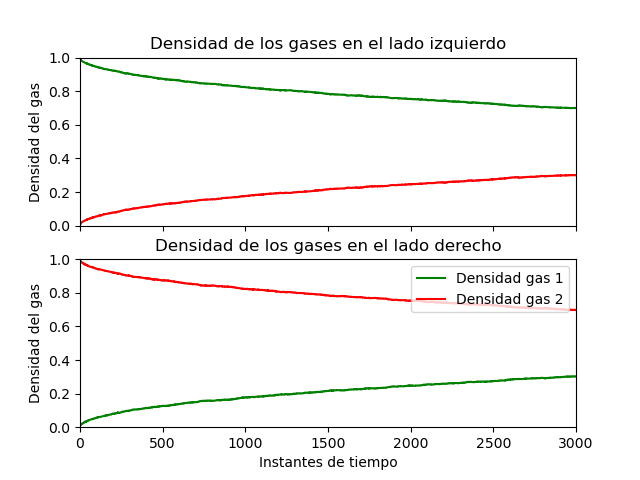
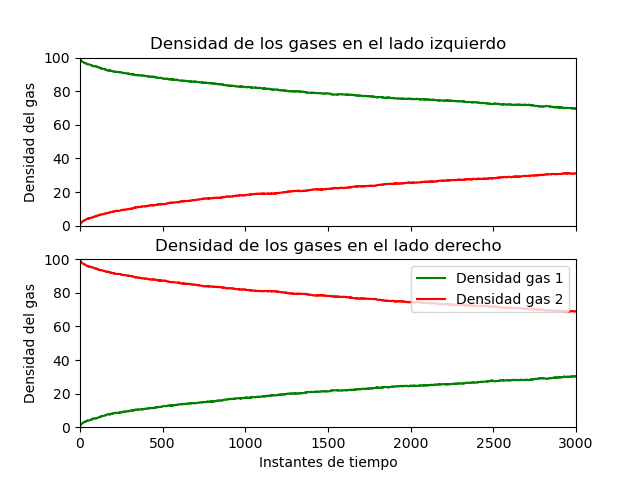
Added imagenes de densidad de gases. Added ejercicio 09b.

diff --git a/TP-1/Ejercicio09.py b/TP-1/Ejercicio09.py
@@ -18,23 +18,29 @@ RW_CUATRO_DIRS_VEL = 0.1
 densidad_lado_izq = []
 densidad_lado_der = []
 
-gas_1_x = np.random.uniform(0, LIMIT_X/2, CANT_GAS_1)
-gas_1_y = np.random.uniform(0, LIMIT_Y, CANT_GAS_1)
-gas_1 = np.column_stack((gas_1_x,gas_1_y))
+def crear_particulas_gases():
+    gas_1_x = np.random.uniform(0, LIMIT_X/2, CANT_GAS_1)
+    gas_1_y = np.random.uniform(0, LIMIT_Y, CANT_GAS_1)
+    gas_1 = np.column_stack((gas_1_x,gas_1_y))
 
-gas_2_x = np.random.uniform(LIMIT_X/2, LIMIT_X, CANT_GAS_2)
-gas_2_y = np.random.uniform(0, LIMIT_Y, CANT_GAS_2)
-gas_2 = np.column_stack((gas_2_x,gas_2_y))
+    gas_2_x = np.random.uniform(LIMIT_X/2, LIMIT_X, CANT_GAS_2)
+    gas_2_y = np.random.uniform(0, LIMIT_Y, CANT_GAS_2)
+    gas_2 = np.column_stack((gas_2_x,gas_2_y))
+    return gas_1, gas_2
 
-fig = plt.figure()
-ax = plt.axes(xlim=(0, LIMIT_X), ylim=(0, LIMIT_Y))
-scat_gas_1 = ax.scatter([], [], s=0.5, c="g")
-scat_gas_2 = ax.scatter([], [], s=0.5, c="r")
+def choco_con_paredes_ej_a(old_x, old_y, new_x, new_y):
+    return esta_fuera_de_limites(old_x, old_y, new_x, new_y)
 
-def esta_en_limites(x,y):
-    return (0 <= x <= LIMIT_X and 0 <= y <= LIMIT_Y)
+def choco_con_paredes_ej_b(old_x, old_y, new_x, new_y):
+    return esta_fuera_de_limites(old_x, old_y, new_x, new_y) or choco_con_pared_del_medio(old_x, old_y, new_x, new_y)
 
-def random_walk_cuatro_dirs(x,y):
+def choco_con_pared_del_medio(old_x, old_y, new_x, new_y):
+    return (old_x < LIMIT_X/2 and new_x > LIMIT_X/2 and new_y > LIMIT_Y/2) or (old_x > LIMIT_X/2 and new_x < LIMIT_X/2 and new_y > LIMIT_Y/2)
+
+def esta_fuera_de_limites(old_x, old_y, new_x, new_y):
+    return not (0 <= new_x <= LIMIT_X and 0 <= new_y <= LIMIT_Y)
+
+def random_walk_cuatro_dirs(x, y, choco_con_pared):
     """Esta funcion recibe la posicion de una particula y devuelve la nueva posicion para la misma dentro de los limites"""
     siguientePaso = random.randint(1,4)
     if siguientePaso == 1:
@@ -45,7 +51,7 @@ def random_walk_cuatro_dirs(x,y):
         new_x,new_y = x - RW_CUATRO_DIRS_VEL, y
     else:
         new_x,new_y = x, y - RW_CUATRO_DIRS_VEL
-    if not esta_en_limites(new_x,new_y):
+    if choco_con_pared(x, y, new_x, new_y): #si choca, se queda con los X,Y anteriores al calculo.
         return x,y
     return new_x,new_y
 
@@ -56,48 +62,87 @@ def init():
 def calcular_densidad_derecha(instante):
     cant_gas_1_lado_der = len(gas_1.T[0][gas_1.T[0]>LIMIT_X/2]) #Obtengo aquellas parts. del gas 1 que estan del lado derecho
     cant_gas_2_lado_der = len(gas_2.T[0][gas_2.T[0]>LIMIT_X/2]) #Obtengo aquellas parts. del gas 2 que estan del lado derecho
-    total_lado_der = cant_gas_1_lado_der + cant_gas_2_lado_der
-    return [instante,cant_gas_1_lado_der/total_lado_der,cant_gas_2_lado_der/total_lado_der]
+    superficie = LIMIT_X/2 * LIMIT_Y
+    return [instante,cant_gas_1_lado_der/superficie,cant_gas_2_lado_der/superficie]
 
 def calcular_densidad_izquierda(instante):
     cant_gas_1_lado_izq = len(gas_1.T[0][gas_1.T[0]<LIMIT_X/2]) #Obtengo aquellas parts. del gas 1 que estan del lado izquierdo
     cant_gas_2_lado_izq = len(gas_2.T[0][gas_2.T[0]<LIMIT_X/2]) #Obtengo aquellas parts. del gas 2 que estan del lado izquierdo
-    total_lado_izq = cant_gas_1_lado_izq + cant_gas_2_lado_izq
-    return [instante,cant_gas_1_lado_izq/total_lado_izq,cant_gas_2_lado_izq/total_lado_izq]
+    superficie = LIMIT_X/2 * LIMIT_Y
+    return [instante,cant_gas_1_lado_izq/superficie,cant_gas_2_lado_izq/superficie]
 
-def animate_random_walk(instante, random_walk_func):
+def animate_random_walk_ej_a(instante, random_walk_func):
     """Esta funcion se ejecuta en cada frame del random walk aplicandole la funcion recibida por parametro a las "particulas" de cada gas obteniendo asi su nueva posicion"""
     for t in range(0, len(gas_1)):
-        gas_1[t][0],gas_1[t][1] = random_walk_func(gas_1[t][0], gas_1[t][1])
+        gas_1[t][0],gas_1[t][1] = random_walk_func(gas_1[t][0], gas_1[t][1], choco_con_paredes_ej_a)
     for t in range(0, len(gas_2)):
-        gas_2[t][0],gas_2[t][1] = random_walk_func(gas_2[t][0], gas_2[t][1])
+        gas_2[t][0],gas_2[t][1] = random_walk_func(gas_2[t][0], gas_2[t][1], choco_con_paredes_ej_a)
+    densidad_lado_der.append(calcular_densidad_derecha(instante))
+    densidad_lado_izq.append(calcular_densidad_izquierda(instante))
+   
+def animate_random_walk_ej_b(instante, random_walk_func):
+    """Esta funcion se ejecuta en cada frame del random walk aplicandole la funcion recibida por parametro a las "particulas" de cada gas obteniendo asi su nueva posicion"""
+    for t in range(0, len(gas_1)):
+        gas_1[t][0],gas_1[t][1] = random_walk_func(gas_1[t][0], gas_1[t][1], choco_con_paredes_ej_b)
+    for t in range(0, len(gas_2)):
+        gas_2[t][0],gas_2[t][1] = random_walk_func(gas_2[t][0], gas_2[t][1], choco_con_paredes_ej_b)
     densidad_lado_der.append(calcular_densidad_derecha(instante))
     densidad_lado_izq.append(calcular_densidad_izquierda(instante))
 
-anim = FuncAnimation(fig, animate_random_walk, init_func=init, frames=CANT_INSTANTES, interval=1, repeat=False, fargs=(random_walk_cuatro_dirs,))
+def plot_densidad(ax, densidad, title):
+    ax.plot(np.array(densidad).T[0], np.array(densidad).T[1], "-g", label="Densidad gas 1")
+    ax.plot(np.array(densidad).T[0], np.array(densidad).T[2], "-r", label="Densidad gas 2")
+    ax.set_title(title)
 
-#Comentar la siguiente linea si no funciona, hay que instalar imagemagick
-anim.save('E09-a.gif', writer='imagemagick')
-plt.show()
+def set_plot_axis():
+    for ax in axs.flat:
+        ax.set(xlabel='Instantes de tiempo', ylabel='Densidad del gas')
+        ax.set_xlim(0, CANT_INSTANTES)
+        ax.set_ylim(0, 100)
+        ax.label_outer()
+        
+fig = plt.figure()
+ax = plt.axes(xlim=(0, LIMIT_X), ylim=(0, LIMIT_Y))
+scat_gas_1 = ax.scatter([], [], s=0.5, c="g")
+scat_gas_2 = ax.scatter([], [], s=0.5, c="r")
 
-fig, axs = plt.subplots(2)
+gas_1, gas_2 = crear_particulas_gases()
 
-ax_densidad_izquierda = axs[0]
-ax_densidad_izquierda.plot(np.array(densidad_lado_izq).T[0], np.array(densidad_lado_izq).T[1], "-g", label="Densidad gas 1")
-ax_densidad_izquierda.plot(np.array(densidad_lado_izq).T[0], np.array(densidad_lado_izq).T[2], "-r", label="Densidad gas 2")
-ax_densidad_izquierda.set_title("Densidad de los gases en el lado izquierdo")
+ej = input("Presione la tecla 'a' o la tecla 'b': ")
+while ej not in {'a','b'}:
+    ej = input("Presione la tecla 'a' o la tecla 'b': ")
 
-ax_densidad_derecha = axs[1]
-ax_densidad_derecha.plot(np.array(densidad_lado_der).T[0], np.array(densidad_lado_der).T[1], "-g", label="Densidad gas 1")
-ax_densidad_derecha.plot(np.array(densidad_lado_der).T[0], np.array(densidad_lado_der).T[2], "-r", label="Densidad gas 2")
-ax_densidad_derecha.set_title("Densidad de los gases en el lado derecho")
+if ej == 'a':
+    print("Ejecutando punto A)")
+    anim = FuncAnimation(fig, animate_random_walk_ej_a, init_func=init, frames=CANT_INSTANTES, interval=1, repeat=False, fargs=(random_walk_cuatro_dirs,))
 
-for ax in axs.flat:
-    ax.set(xlabel='Instantes de tiempo', ylabel='Densidad del gas')
-    ax.set_xlim(0, CANT_INSTANTES)
-    ax.set_ylim(0,1)
-    ax.label_outer()
+    #Comentar la siguiente linea si no funciona, hay que instalar imagemagick
+    #anim.save('E09-a.gif', writer='imagemagick')
+    plt.show()
 
-plt.legend(loc="upper right")
-fig.savefig(sys.path[0] + "/E09-a-densidad-gases.png")
-plt.show()
+    fig, axs = plt.subplots(2)
+
+    plot_densidad(axs[0], densidad_lado_izq, "Densidad de los gases en el lado izquierdo")
+    plot_densidad(axs[1], densidad_lado_der, "Densidad de los gases en el lado derecho")
+    set_plot_axis()
+
+    plt.legend(loc="upper right")
+    fig.savefig(sys.path[0] + "/E09-a-densidad-gases.png")
+    plt.show()
+else:
+    print("Ejecutando punto B) con pared en el medio superior")
+    anim = FuncAnimation(fig, animate_random_walk_ej_b, init_func=init, frames=CANT_INSTANTES, interval=1, repeat=False, fargs=(random_walk_cuatro_dirs,))
+
+    #Comentar la siguiente linea si no funciona, hay que instalar imagemagick
+    #anim.save('E09-b.gif', writer='imagemagick')
+    plt.show()
+
+    fig, axs = plt.subplots(2)
+
+    plot_densidad(axs[0], densidad_lado_izq, "Densidad de los gases en el lado izquierdo")
+    plot_densidad(axs[1], densidad_lado_der, "Densidad de los gases en el lado derecho")
+    set_plot_axis()
+
+    plt.legend(loc="upper right")
+    fig.savefig(sys.path[0] + "/E09-b-densidad-gases.png")
+    plt.show()

diff --git a/TP-1/Ejercicio05.py b/TP-1/Ejercicio05.py
@@ -6,7 +6,7 @@ from scipy.stats import chi2
 
 INICIO_INTERVALO = 0.2
 FIN_INTERVALO = 0.5
-CANT_SIMULACIONES = 100000
+CANT_SIMULACIONES = 300000
 SIGNIFICANCIA_CHI2 = 0.01
 
 def gap_chi2 (frecuencias):
@@ -27,6 +27,7 @@ def gap_chi2 (frecuencias):
 		D2 += D2i
 	limiteSuperior = chi2.ppf(1 - SIGNIFICANCIA_CHI2, df=len(frecuencias) - 1)
 	print("Estadistico: {:.2f} ".format(D2))
+	print("Limite superior: {:.2f} ".format(limiteSuperior))
 	if D2 <= limiteSuperior:
 		print("El test acepta la hipotesis nula. Se comporta como una Geometrica.")
 	else:
